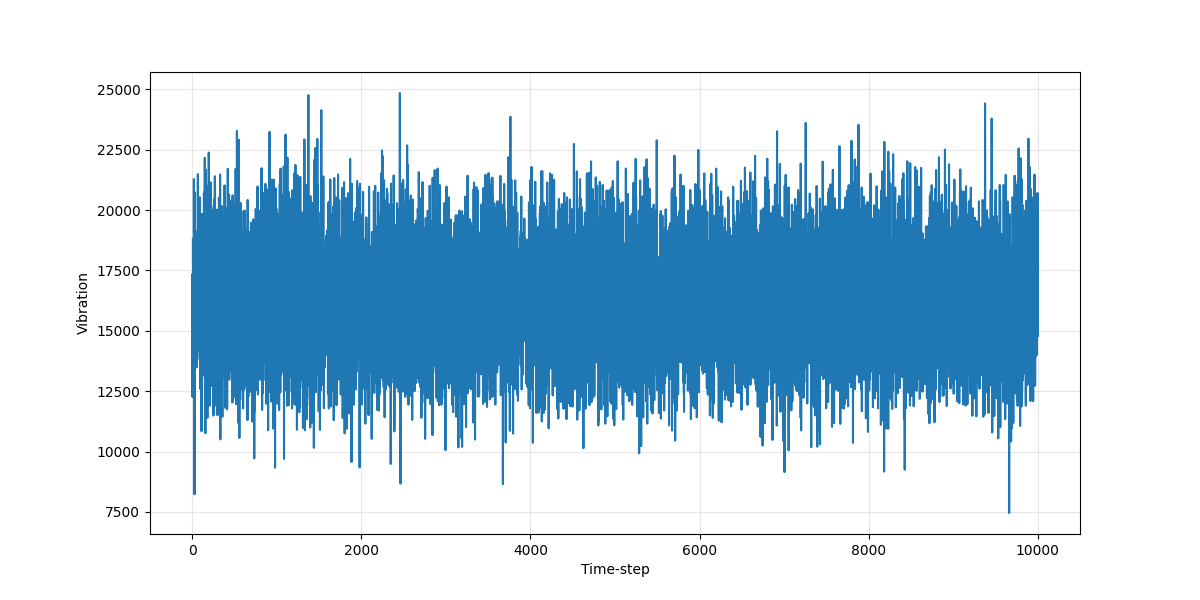
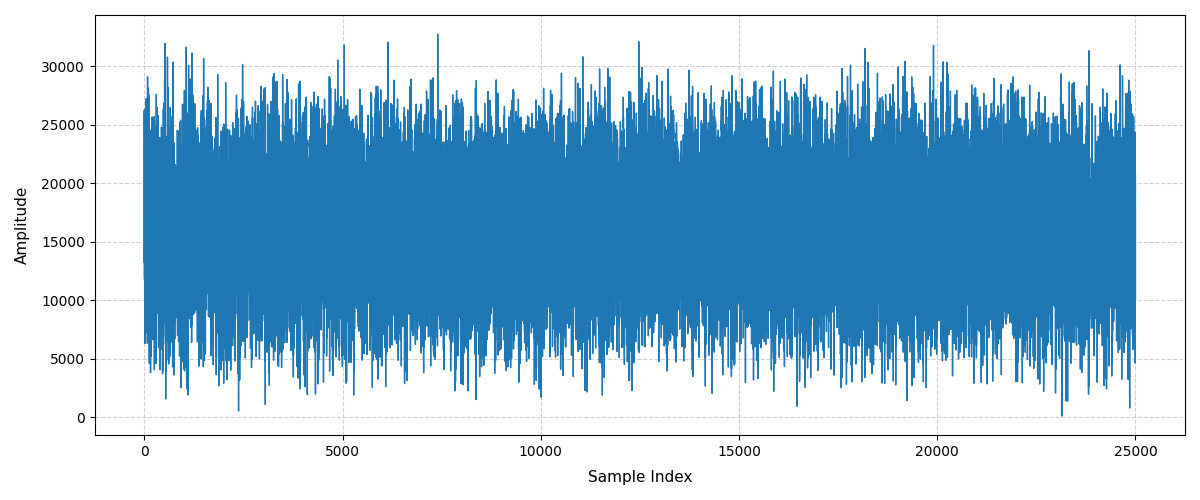
Updates from Overleaf

diff --git a/main.tex b/main.tex
@@ -47,12 +47,6 @@
 %% e.g., "alphabetic", "authoryear", ...
 %% The biblatex style which is being used for referencing. See
 %% biblatex documentation for further details and more values.
-%%
-%% CAUTION: if you change the style, please check for (in)compatible
-%%          "biblatex" package options in the file
-%%          "template/preamble.tex"! For example: "alphabetic" does
-%%          not have an option "dashed=..." and causes an error if it
-%%          does not get removed from the list of options.
 
 \newcommand{\mybiblatexdashed}{false}  %% "true" or "false"
 %% If true: replace recurring reference authors with a dash.
@@ -65,77 +59,49 @@
 
 \newcommand{\mydispositioncolor}{0,0,0}
 %% e.g., "30,103,182" (blue/turquois), "0,0,0" (black), ...
-%% Color of the headings and so forth in RGB (red,green,blue) values.
-%% NOTE: if you are using "0,0,0" for black, printers might still
-%%       recognize pages as color pages. In case this is a problem
-%%       (paying for color print-outs vs. paying for b/w-printouts)
-%%       please edit file "template/preamble.tex" and change
-%%       "\definecolor{DispositionColor}{RGB}{\mydispositioncolor}"
-%%       to "\definecolor{DispositionColor}{gray}{0}" and thus
-%%       overwriting the value of \mydispositioncolor above.
 
 \newcommand{\mycolorlinks}{true}  %% "true" or "false"
 %% Enables or disables colored links (hyperref package).
 
 \newcommand{\mytitlepage}{template/title_Thesis_TU_Graz}
-%% Your own or one of following pre-defined title pages:
-%% "template/title_plain_maketitle": simple maketitle page
-%% "template/title_Diplomarbeit_KF_Uni_Graz.tex": fancy (german) title page for KF Uni Graz
-%% "template/title_Thesis_TU_Graz":
-%%             titlepage for Graz University of Technology (correct
-%%             (old?) Corporate Design) by Karl Voit (2012)
-%% "template/title_Thesis_TU_Graz_-_kazemakase":
-%%             titlepage for Graz University of Technology
-%%             (correct new Corporate Design) by kazemakase (2013):
-%%             see https://github.com/novoid/LaTeX-KOMA-template/issues/5
-%% "template/title_VWA": titlepage for Vorwissenschaftliche Arbeit
-
 
 %% Load main settings for document preamble:
 \input{template/preamble}%% DO NOT REMOVE THIS LINE!
 
 
 \setboolean{english_affidavit}{true}  %% "true" or "false"
-%% If set to "true": the language of the statutory declaration text is set to
-%% English, otherwise it is in German.
-
 
 %% ========================================================================
 %%%% Document metadata
 %% ========================================================================
 
-%% general metadata:
-\newcommand{\myauthor}{Fabian Santer}  %% also used for PDF metadata (hyperref)
-\newcommand{\myauthorwithexistingtitles}{\myauthor{}}  %% including
-                                %% university degree already held
-                                %% (BSc, MSc, ...)
-\newcommand{\mytitle}{Real-time Anomaly Detection in Time Series Data}  %% also used for PDF metadata (hyperref)
-\newcommand{\mysubject}{SUBJECT}  %% also used for PDF metadata (hyperref)
-\newcommand{\mykeywords}{KEYWORDS}  %% also used for PDF metadata (hyperref)
+\newcommand{\myauthor}{Fabian Santer}
+\newcommand{\myauthorwithexistingtitles}{\myauthor{}}
+\newcommand{\mytitle}{Real-time Anomaly Detection in Time Series Data}
+\newcommand{\mysubject}{SUBJECT}
+\newcommand{\mykeywords}{KEYWORDS}
 
-%% this information is used only for generating the title page:
-\newcommand{\myworktitle}{Bachelor's Thesis}  %% official type of work like ``Bachelor theses''
-\newcommand{\mygrade}{Bachelor of Science} %% title you are getting with this work like ``Master of ...''
-\newcommand{\mystudy}{} %% your study like ``Arts''
-\newcommand{\mydegreeprogramme}{Bachelor's degree programme : Software Engineering and Management \mystudy} %% Master's or PhD degree programme
-\newcommand{\mydegreeprogrammegerman}{Masterstudium: \mystudy} %% Master's or PhD degree programme
-\newcommand{\myuniversity}{Graz University of Technology} %% your university/school
-\newcommand{\myuniversitygerman}{Technische Universität Graz} %% your university/school
-\newcommand{\myinstitute}{Institute of Visual Computing} %% affiliation
-\newcommand{\myinstitutehead}{Univ.-Prof. Dipl.-Ing. Dr.techn. Thomas Pock} %% head of institute
-\newcommand{\mysupervisor}{Dipl.-Math. Dr.techn. Ullrich Torsten} %% your supervisor
+\newcommand{\myworktitle}{Bachelor's Thesis}
+\newcommand{\mygrade}{Bachelor of Science}
+\newcommand{\mystudy}{}
+\newcommand{\mydegreeprogramme}{Bachelor's degree programme : Software Engineering and Management \mystudy}
+\newcommand{\mydegreeprogrammegerman}{Masterstudium: \mystudy}
+\newcommand{\myuniversity}{Graz University of Technology}
+\newcommand{\myuniversitygerman}{Technische Universität Graz}
+\newcommand{\myinstitute}{Institute of Visual Computing}
+\newcommand{\myinstitutehead}{Univ.-Prof. Dipl.-Ing. Dr.techn. Thomas Pock}
+\newcommand{\mysupervisor}{Dipl.-Math. Dr.techn. Ullrich Torsten}
 \newcommand{\mycosupervisors}{}
-\newcommand{\myevaluator}{Prof.~Some Genius} %% your evaluator
-\newcommand{\myhomestreet}{Aufkirchen 37} %% your home street (with house number)
-\newcommand{\myhometown}{Toblach} %% your home town
-\newcommand{\myhomepostalnumber}{39034} %% your postal number of home town
-\newcommand{\mysubmissionmonth}{month} %% month you are handing in
-\newcommand{\mysubmissionyear}{year} %% year you are handing in
-\newcommand{\mysubmissiontown}{Graz} %% town of handing in (or \myhometown)
+\newcommand{\myevaluator}{Prof.~Some Genius}
+\newcommand{\myhomestreet}{Aufkirchen 37}
+\newcommand{\myhometown}{Toblach}
+\newcommand{\myhomepostalnumber}{39034}
+\newcommand{\mysubmissionmonth}{month}
+\newcommand{\mysubmissionyear}{year}
+\newcommand{\mysubmissiontown}{Graz}
 
-%% additional information for generic_documentation title page
-\newcommand{\myid}{12230815} %% Matrikelnummer
-\newcommand{\mylecture}{LECTURE} %%
+\newcommand{\myid}{12230815}
+\newcommand{\mylecture}{LECTURE}
 
 
 %% ========================================================================
@@ -153,35 +119,30 @@
 %%%% MISC usepackages
 %% ========================================================================
 
-%% ... it's OK to put here your own usepackage commands ...
-%test
-
 \usepackage{soul}
 \usepackage{booktabs}
 \usepackage{amsmath}
 \usepackage{placeins}
 \usepackage{geometry}
 \usepackage{pdfpages}
-%\usepackage{siunitx}
 \usepackage{verbatim}
 \usepackage{tikz}
 \usetikzlibrary{arrows,calc,positioning,fit}
 \usepackage{float}
 
-
-
-%%listings package for clean code integration
+% Code listing configuration
 \usepackage{color}
 \usepackage{listings}
-\lstset{inputpath=../../src}
-\definecolor{javared}{rgb}{0.6,0,0} % for strings
-\definecolor{javagreen}{rgb}{0.25,0.5,0.35} % comments
-\definecolor{javapurple}{rgb}{0.5,0,0.35} % keywords
-\definecolor{javadocblue}{rgb}{0.25,0.35,0.75} % javadoc
+
+% Define color palette
+\definecolor{javared}{rgb}{0.6,0,0}           % for strings
+\definecolor{javagreen}{rgb}{0.25,0.5,0.35}   % comments
+\definecolor{javapurple}{rgb}{0.5,0,0.35}    % keywords
+\definecolor{javadocblue}{rgb}{0.25,0.35,0.75}% javadoc/docstrings
 
 \lstset{
-  inputpath=../../src,
-  language=Java,
+  inputpath={},                               % Overrides template default inputpath
+  language=C,
   escapeinside={//(*}{*)},
   captionpos=t,
   numbers=left,
@@ -200,73 +161,38 @@
   morecomment=[s][\color{javadocblue}]{/**}{*/}
 }
 
-% https://tug.org/FontCatalogue/mathfonts.html
-%\usepackage{lmodern}
-%\usepackage{cmbright}
-
 \geometry{a4paper, portrait, tmargin=1.5in, bmargin=1.5in, outer=1.5in}
 
 %% ========================================================================
 %%%% MISC self-defined commands and settings
 %% ========================================================================
 
-%% ... it's OK to put here your own newcommand/newenvironment-definitions ...
+\newcommand{\myLaT}{\LaTeX{}@TUG\xspace}
 
-
-
-
-\newcommand{\myLaT}{\LaTeX{}@TUG\xspace} %% LaTeX@TUG text "logo"
-
-\hyphenation{ex-am-ple hy-phen-ate}  %% in order to use German umlauts
-%% here (Ver-\"of-fent-li-chung), you have to check for
-%% activated \usepackage[T1]{fontenc} in the preamble
-
-%% override default language of babel: (be sure to know, what you're
-%% doing here)
-%\selectlanguage{american}
-%\selectlanguage{ngerman}
-
-%% ========================================================================
-%%%% Templates
-%% ========================================================================
-
-%% template for inserting figures:
-% \myfig{}%% filename
-%       {}%% width/height
-%       {}%% caption
-%       {}%% optional (short) caption for list of figures
-%       {fig:}%% label
-
-%% acronyms in small caps: \myacro{UNESCO}
+\hyphenation{ex-am-ple hy-phen-ate}
 
 \input{template/pdf_settings}  %% should be *last* definitions in preamble!
+
 %% ========================================================================
 %%%% begin{document}
 %% ========================================================================
 \begin{document}
 
-\frontmatter                    %% KOMA: roman page numbers and such; only available in scrbook
+\frontmatter                    %% KOMA: roman page numbers and such
 
 \input{\mytitlepage}
 
 \input{template/declaration_TU_Graz}
 
-
-%% include the abstract without chapter number but include it on table of contents:
 \input{content/abstract}
-
-
-
 
 \tableofcontents
 
 \listoffigures
 
-
 \listoftables
 
-
-\mainmatter                     %% KOMA: marks main part using arabic page numbers and such; only available in scrbook
+\mainmatter                     %% KOMA: marks main part using arabic page numbers
 
 \include{content/introduction/index}
 \include{content/background/index}
@@ -277,20 +203,9 @@
 \include{content/conclusion}
 
 \printbibliography              %% remove, if using BibTeX instead of biblatex
-% \include{further_ressources}  %% this is a suggestion: you have to create this file on demand
 
-\appendix                       %% closes main document, appendix follows until end; only available in book-classes
+\appendix                       %% closes main document, appendix follows
 \addpart*{Appendix}             %% adding Appendix to tableofcontents
 \input{content/appendix/index}
 
-%%%% end{document}
 \end{document}
-%% vim:foldmethod=expr
-%% vim:fde=getline(v\:lnum)=~'^%%%%\ .\\+'?'>1'\:'='
-%%% Local Variables:
-%%% mode: latex
-%%% mode: auto-fill
-%%% mode: flyspell
-%%% eval: (ispell-change-dictionary "en_US")
-%%% TeX--: "main"
-%%% End:

diff --git a/content/background/concepts/visualComparison.tex b/content/background/concepts/visualComparison.tex
@@ -1,22 +1,23 @@
 \subsection{Visual comparison}
-
-When comparing the plain plotting and fingerprint approach a clear improvement can be observed. While the raw vibration signal does indeed provide an accurate depiction of the machines behavior over time, the interpretation is difficult for an non expert human. 
-As shown in Figure~\ref{fig:BadExample}, the signal appears as a continuous wave in which patterns are not immediately visible. This causes that, extracting insights about the machine's condition requires further analysis or a high level of expertise.
-
+Conventional time series representations of vibration signals and highly clustered data in general tend to suffer from over-plotted when high-frequency noise is observed over a extended time period. As shown in Figure \ref{fig:BadExample}, high sampling rates compress the signal into an high-density amplitude block. The result is that phase shifts and harmonic distortions remain visually hidden consequently making it unsuitable for condition monitoring. 
 \begin{figure}[H]
 \centering
 \includegraphics[width=0.7\textwidth]{figures/vibration_data.png}
 \caption{Example of the raw vibration signal.}
 \label{fig:BadExample}
 \end{figure}
-
-In contrast, the fingerprint approach provide more information and a compact representation when the same data is used. As shown in \ref{fig:tdeVisual}, a healthy vibration dataset produces a distinct and elliptical shaped fingerprint. This allows easier and faster visual anomaly detection showing the possible implementation in maintenance.
-(zwei unterschiedliche größen!) sample variance wir brauchen 1/n !)
+In contrast, transforming the data into a Time Delay Embedding phase space produces a highly compact visually informative fingerprint.Figure \ref{fig:tdeHealty} shows the baseline fingerprint under healthy normal operating conditions, generated with the algorithm described in Section \ref{section:OriginalImplementation} 
+A healthy fingerprint is characterized by signal periodicity, which "results in elliptical structures and 'round' point cloud shapes" \cite{rakuschek2025visual}. Furthermore, "noise accumulates near the center while vibrations cause the circular patterns with a larger radius than noise," with these circular structures persisting even under high noise levels \cite{rakuschek2025visual}.
 \begin{figure}[H]
 \centering
-\includegraphics[width=0.7\textwidth]{figures/tdeVisual.png}
-\caption{Example of a healthy fingerprint generated from the vibration data.}
-\label{fig:tdeVisual}
+\includegraphics[width=0.5\textwidth]{figures/tdeVisual.png}
+\caption{Example of a faulty fingerprint from a machine running in presence of mechanical imbalance at shaft.}
+\label{fig:tdeBadExample}
 \end{figure}
-
-The comparison demonstrates that the fingerprint representation preserves relevant information while significantly improving visual anomaly detection, making it an effective tool for condition monitoring and fault detection.
+\begin{figure}[H]
+\centering
+\includegraphics[width=0.5\textwidth]{figures/healtyFingerprint.png}
+\caption{Example of a fingerprint under no faulty conditions.}
+\label{fig:tdeHealty}
+\end{figure}
+Comparing the faulty fingerprint in Figure\ref{fig:tdeBadExample} with the healthy baseline in Figure \ref{fig:tdeHealty} shows distinct geometric distortions. For instance in figure \ref{fig:BadExample} a mechanical shaft imbalance wraps the phase trajectory into an asymmetric pattern while the healthy fingerprint shows a clean and periodic shape. 

diff --git a/content/background/section1.tex b/content/background/section1.tex
@@ -1,9 +1,9 @@
 % Spellchecking done with grammarly
 \section{Baseline Methodology}
 The main starting point for this thesis is the papers Visual Fingerprints of Vibration Signals
-Using Time Delay Embedding. The goal of this paper was to create an algorithm which solves the issue of plotting vibration data on line graph where you can't distinguish between noise and the actual vibrations. The overall goal was to: further enhance and complement the visual inspection in the time
+Using Time Delay Embedding. The purpose of this paper was to create an algorithm which solves the issue of plotting vibration data on line graph where you can't distinguish between noise and the actual vibrations. The overall goal was to: further enhance and complement the visual inspection in the time
 domain, enabling users to quickly gain an overview of different
 vibration profiles within the signal or to detect periodicity within
 noise. (\cite{rakuschek2025visual} p.1) In the background this was done by using  Time Delay Embeddings
-(TDE), which is an way of taking the time series data and transform it into a point cloud that can be projected onto a 2D plane. Another really important aspect of the algorithm which is to be transformed is the use of Principal Component Analysis which is a dimensionality reduction technique and helps to reduce the number of features in a dataset while keeping the most important information. It changes complex datasets by transforming correlated features into a smaller set of uncorrelated components (\cite{geeksforgeeks2025pca}). When this two algorithms are applied on a harmonic oscillation the result is a ellipsoid. When noise is added its really hard to distinguished between noise or the hidden signal. The vibration signal is then revealed by the TDE with different window sizes. This behavior is visualized by the appendix 1 which shows the contrast between time series data and the suggested approach which resembles a human fingerprint.
+(TDE), which is an way of taking the time series data and transform it into a point cloud that can be projected onto a 2D plane. Another really important aspect of the algorithm which is to be transformed is the use of Principal Component Analysis which is a dimensionality reduction technique and helps to reduce the number of features in a dataset while keeping the most important information.As stated by John Aldrich PCA simplifies complex datasets by transforming correlated features into a smaller set of uncorrelated components (\cite{KarlPearson}). When this two algorithms are applied on a harmonic oscillation the result is a ellipsoid. As more noise is added its really hard to distinguished between noise or the hidden signal. The vibration signal is then revealed by the TDE with different window sizes. This behavior is visualized by the appendix 1 which shows the contrast between time series data and the suggested approach which resembles a human fingerprint.
 When noise is introduced, distinguishing the underlying hidden signal from the noise becomes increasingly difficult. However, applying Time Delay Embedding (TDE) with appropriate window sizes effectively reveals the underlying vibration signal.

diff --git a/content/chapter4/incrementalPca/operations/subspaceIteration.tex b/content/chapter4/incrementalPca/operations/subspaceIteration.tex
@@ -1,0 +1,12 @@
+\subsection{Subspace iteration}
+Once the running covariance matrix is updated by the time delay embedding vector the dominant feature directions have to be extracted to project the high dimensional point cloud onto an two dimensional plane. Conventional Principal Component Analysis relies on full eigenvector and eigenvalue decomposition which comes with a high dimensional cost of $O(d^3)$ (because the has to be reduced to diagonal form). By tracking the first two principal components $q_1$ and $q_2$ dynamically the subspace is updated incrementally instead of recomputing the components from scratch each iteration.
+\\ \\
+The whole function is defined as 
+\lstinputlisting[
+  language=C,
+  caption={FILL OUT!. The complete source code is listed in the Appendix~\ref{app:simplelinearregression}.\\~},
+  label={src:linregressionalgorithm},
+  firstnumber=120,
+  firstline=120,
+  lastline=158
+]{content/codebase/code/src/AnomalyDetection.c}

diff --git a/content/background/concepts/originalImplementation.tex b/content/background/concepts/originalImplementation.tex
@@ -1,4 +1,5 @@
 \subsection{Original implementation}
+\label{section:OriginalImplementation}
 
 The original offline implementation was written in Python and focuses on two core functions. \\
 The time delay embedding function takes a 1D input signal (as a NumPy array) and the parameters $d$ (embedding dimension), $\tau$ (time delay), and $s$ (stride or window step size). By default tau and stride is set to one. The function uses a multidimensional array to store the individual windows of length d-Dimensions. The tau enforces the step size between the elements in each window larger than tau and spreads the window further apart in time.

diff --git a/content/chapter4/incrementalPca/operations/mean.tex b/content/chapter4/incrementalPca/operations/mean.tex
@@ -23,3 +23,12 @@ z_{t,d} - \mu
 \label{eq:centering_vector}
 \end{equation}
 Data centering translates the coordinate system origin to the sample mean vector $\mu_t$. This ensures that the resulting covariance matrix accurately captures variance relative to the centroid, rather than second-moment distortions introduced by a non-zero mean offset.
+
+\lstinputlisting[
+  language=C,
+  caption={FILL OUT!. The complete source code is listed in the Appendix~\ref{app:simplelinearregression}.\\~},
+  label={src:linregressionalgorithm},
+  firstnumber=137,
+  firstline=137,
+  lastline=152
+]{content/codebase/code/src/AnomalyDetection.c}

diff --git a/content/appendix/codeBase.tex b/content/appendix/codeBase.tex
@@ -1,0 +1,23 @@
+\section{Original implementation}
+\lstinputlisting[
+  language=Python]
+{content/codebase/benchmarkCode/static_fingerprintvisualization.py}
+
+\section{Main algorithm logic}
+\lstinputlisting[
+  language=C]
+{content/codebase/code/include/AnomalyDetection.h}
+\lstinputlisting[
+  language=C]
+{content/codebase/code/src/AnomalyDetection.c}
+
+\section{Function calling}
+\lstinputlisting[
+  language=C]
+{content/codebase/code/anomaly_detection.cpp}
+
+\section{Plotting}
+\lstinputlisting[
+  language=Python]
+{content/codebase/code/src/plotting.py}
+

diff --git a/content/chapter4/incrementalPca/mainPerformanceIssue.tex b/content/chapter4/incrementalPca/mainPerformanceIssue.tex
@@ -2,5 +2,5 @@
 Inside the PCA the operations with the most computational rewuirments can be found namely(from most expensive to least):\\
 \input{content/chapter4/incrementalPca/operations/mean}
 \input{content/chapter4/incrementalPca/operations/covarianceMatrix}
-\input{content/chapter4/incrementalPca/operations/EigenDecomposition}
+\input{content/chapter4/incrementalPca/operations/subspaceIteration}
 \input{content/chapter4/incrementalPca/operations/projectionPca}

diff --git a/content/appendix/appendix1.tex b/content/appendix/appendix1.tex
@@ -1,4 +1,5 @@
 \section{Appendix 1}
+Fix that the seconf page is not here!
 \label{app:descriptionDataset}
 \centering\includegraphics[page = 1, width=\textwidth]{content/appendix/Description.pdf}
 \centering\includegraphics[page = 2, width=\textwidth]{content/appendix/Description.pdf}

diff --git a/content/appendix/index.tex b/content/appendix/index.tex
@@ -8,3 +8,4 @@
 
 \chapter{Codebase}
 \label{app:excluded_files}
+\input{content/appendix/codeBase}
